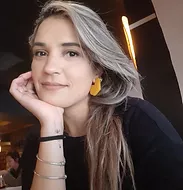
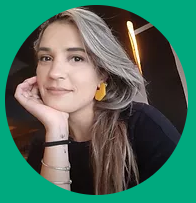
Edicao de imagens de colaboradores

diff --git a/Palavras/src/rotes.tsx b/Palavras/src/rotes.tsx
@@ -8,6 +8,7 @@ import Header from './components/Header';
 import Paginaprograma from './components/Paginaprograma';
 import Paz from './components/Paz';
 import Sobrenos from './components/Sobrenos';
+import Teste from './components/teste';
 import Zoom from './components/Zoon';
 import Colaboradores from './pages/Equipe';
 import Home from './pages/Home';
@@ -40,6 +41,7 @@ const MyRoutes: React.FC = () => {
         <Route path="/paz" element={<Paz/>} />
         <Route path="/footer" element={<Footer/>} />
         <Route path="/equipe" element={<Colaboradores/>} />
+        <Route path="/teste" element={<Teste/>} />
        
     
        

diff --git a/Palavras/src/components/teste/index.tsx b/Palavras/src/components/teste/index.tsx
@@ -1,0 +1,17 @@
+import React, { Fragment } from 'react'
+import "./styles.css"
+import Aline from "../../assets/Nossa Equipe/Zita.png"
+
+ function Teste() {
+  return (
+    <Fragment>
+
+        <div className='colaboradores'>
+
+            <img style={{borderRadius: "50%"}} src={Aline} alt="" />
+        </div>
+
+    </Fragment>
+  )
+}
+export default Teste

diff --git a/Palavras/src/components/teste/styles.css b/Palavras/src/components/teste/styles.css
@@ -1,0 +1,8 @@
+.colaboradores{
+    width: 100vw;
+    height: 100vh;
+    background-color: #00A97E;
+    text-align: center;
+    padding-top: 250px;
+    
+}
